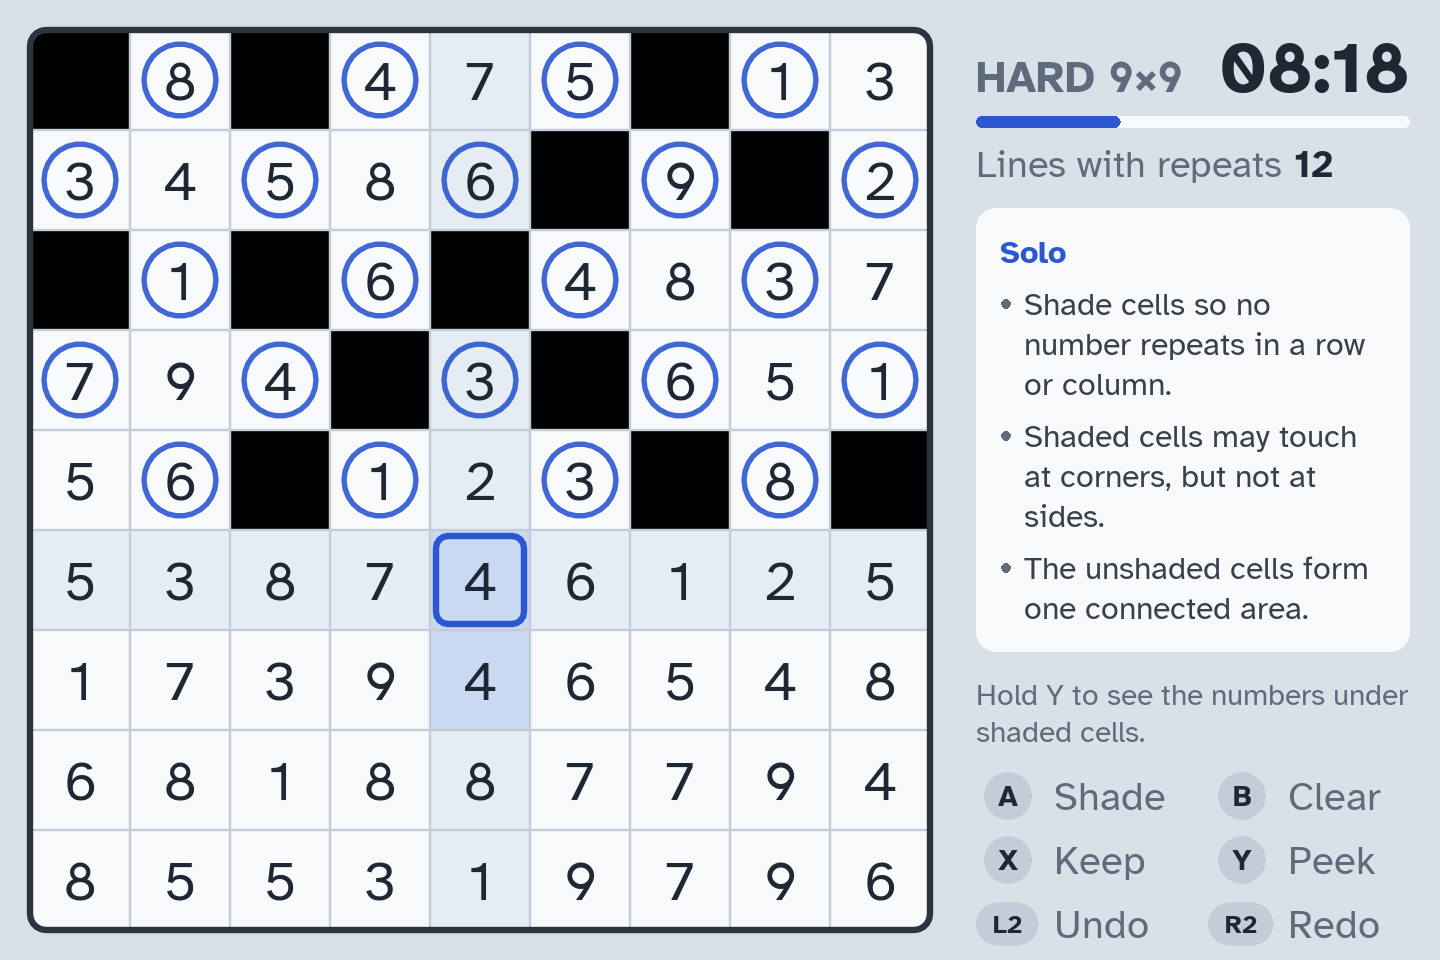
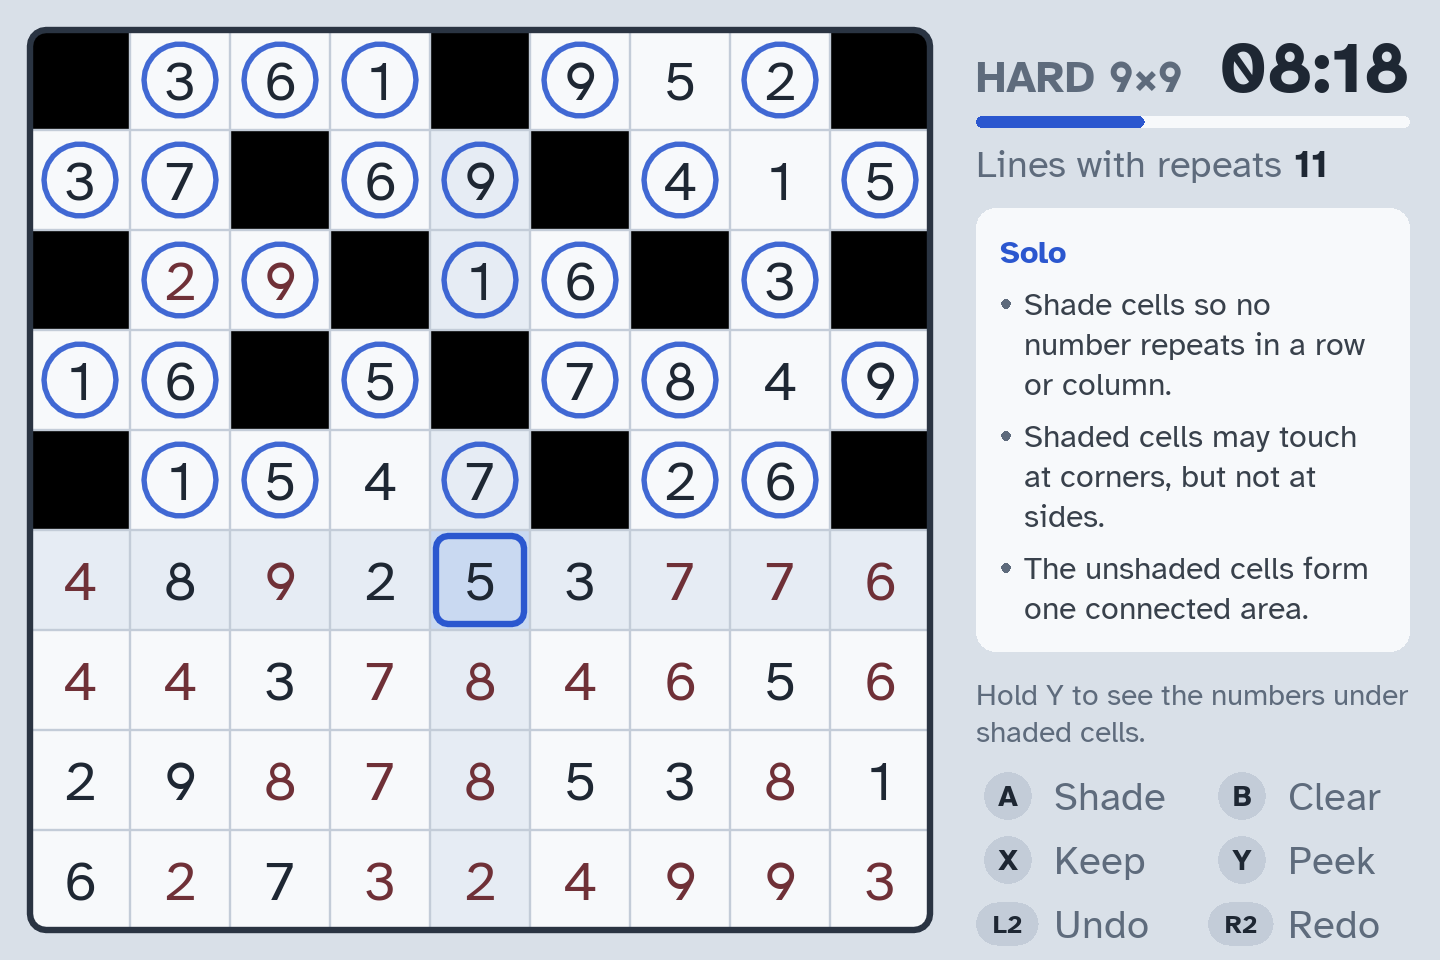
Tint Solo's repeating numbers, and show a Sudoku hint in the README
- Solo: a number that still repeats in its row or column, among the
  unshaded cells, is tinted partway to the theme's red, and goes back to
  normal once its repeats are shaded. Settings → Show repeats in Solo
  turns it off (on by default). SoloGame:repeats() finds the cells, with
  tests.
- README: a sixth picture at the top, an explained hint (a naked pair),
  so the pictures fill two columns; the Solo pictures are retaken to
  show the tint.

diff --git a/README.md b/README.md
@@ -7,8 +7,8 @@ MustardOS, and on other handheld systems through PortMaster. Designed for the An
 RG34XXSP's 720×480 screen and scaled to fit other resolutions.
 
 <img src="screenshots/title.png" alt="Title screen: a box for each of the four games on the left, with Sudoku chosen" width="49%"> <img src="screenshots/play.png" alt="Sudoku: a Hard puzzle with pencil notes" width="49%">
-<img src="screenshots/solo.png" alt="Solo: a 7×7 Medium puzzle part way through, black shaded cells with rings on the cells kept beside them" width="49%"> <img src="screenshots/pairlink.png" alt="Pairlink: an 8×8 Medium puzzle with six of nine pairs linked and a line being drawn" width="49%">
-<img src="screenshots/hoshi.png" alt="Hoshi: a 9×9 Medium puzzle part way through, with a bridge being drawn from an island" width="49%">
+<img src="screenshots/hint.png" alt="Sudoku: an explained hint, a naked pair, with the notes it rules out crossed off" width="49%"> <img src="screenshots/solo.png" alt="Solo: a 7×7 Medium puzzle part way through, black shaded cells with rings on the cells kept beside them, and the numbers that still repeat tinted" width="49%">
+<img src="screenshots/pairlink.png" alt="Pairlink: an 8×8 Medium puzzle with six of nine pairs linked and a line being drawn" width="49%"> <img src="screenshots/hoshi.png" alt="Hoshi: a 9×9 Medium puzzle part way through, with a bridge being drawn from an island" width="49%">
 
 | Game | The goal | Boards | Levels |
 |---|---|---|---|
@@ -269,7 +269,10 @@ solved.
 | Start / Menu | Pause menu |
 
 Shaded cells turn black and hide their number; hold Y to see them while it's held.
-The side panel counts the rows and columns that still have a repeat. With Highlight
+A number that still repeats in its row or column is tinted a soft red, and goes back
+to normal once its repeats are shaded (turn this off in **Settings → Show repeats in
+Solo**). The side panel counts the rows and columns that
+still have a repeat. With Highlight
 matching numbers on, the cursor's row and column light up, with its number's repeats
 picked out.
 
